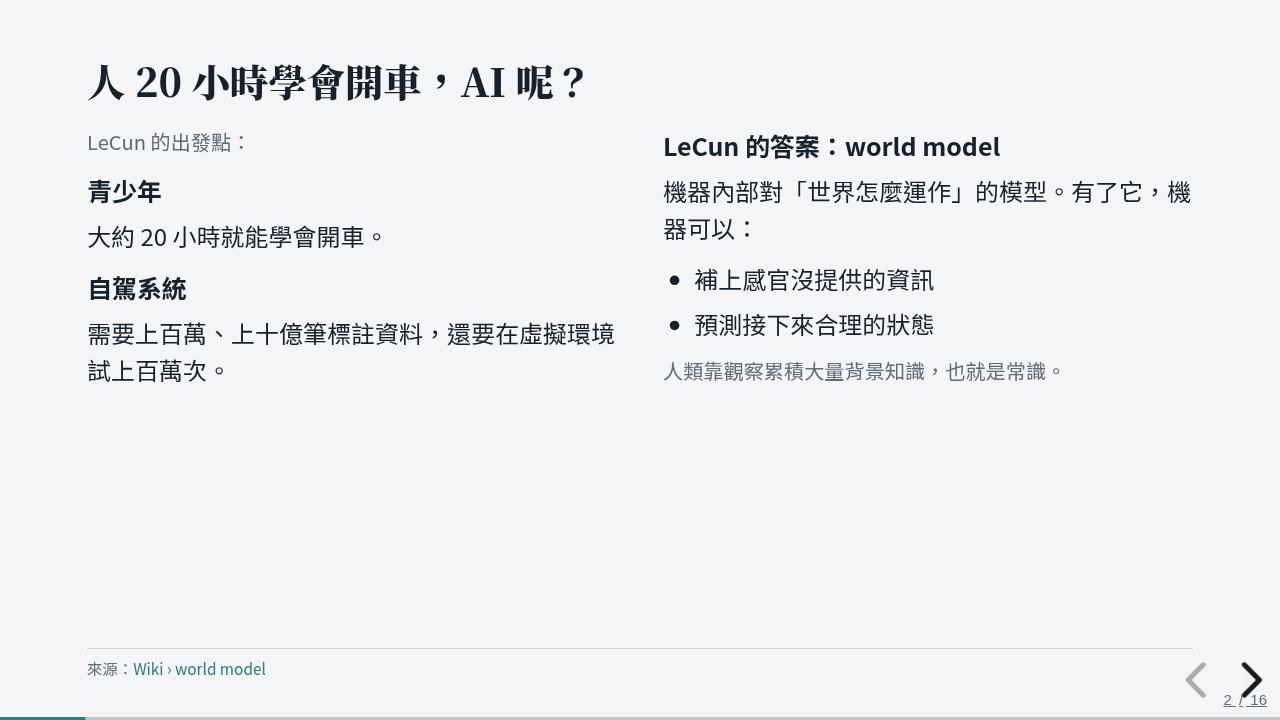
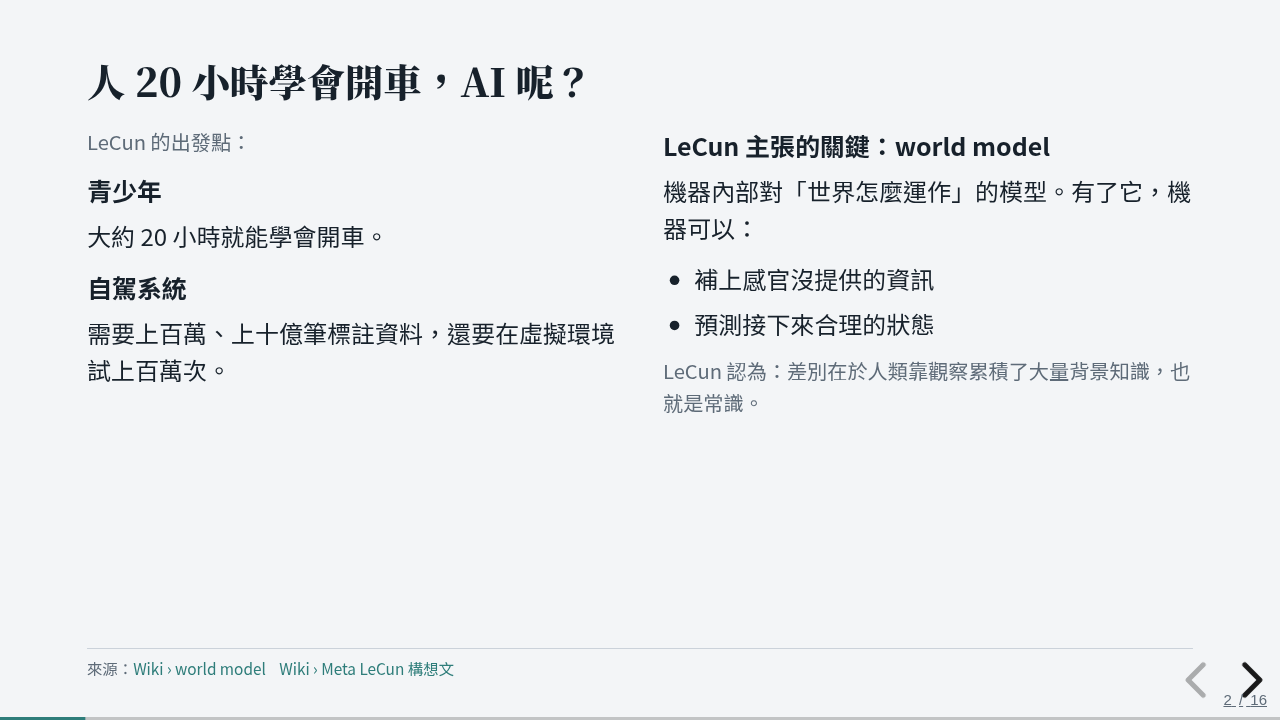
Run-2: fix final semantic findings

Changed region(s): [[0.5, 0.4889, 0.9375, 0.5806], [0.5625, 0.1833, 0.8125, 0.2444], [0.2188, 0.9167, 0.3438, 0.9472]]

diff --git a/index.html b/index.html
@@ -127,7 +127,7 @@ table.plain th { font-weight: 700; color: var(--muted); font-size: 19px; }
 </section>
 
 <!-- 1 動機 -->
-<section data-wiki="concepts/world-model.md#為什麼需要,concepts/world-model.md#是什麼">
+<section data-wiki="concepts/world-model.md#為什麼需要,concepts/world-model.md#是什麼,sources/meta-lecun-blog.md#摘要">
   <h2>人 20 小時學會開車，AI 呢？</h2>
   <div class="cols">
     <div>
@@ -138,16 +138,16 @@ table.plain th { font-weight: 700; color: var(--muted); font-size: 19px; }
       <p>需要上百萬、上十億筆標註資料，還要在虛擬環境試上百萬次。</p>
     </div>
     <div>
-      <h3>LeCun 的答案：world model</h3>
+      <h3>LeCun 主張的關鍵：world model</h3>
       <p>機器內部對「世界怎麼運作」的模型。有了它，機器可以：</p>
       <ul>
         <li>補上感官沒提供的資訊</li>
         <li>預測接下來合理的狀態</li>
       </ul>
-      <p class="muted small">人類靠觀察累積大量背景知識，也就是常識。</p>
+      <p class="muted small">LeCun 認為：差別在於人類靠觀察累積了大量背景知識，也就是常識。</p>
     </div>
   </div>
-  <footer class="src">來源：<a href="https://github.com/MikoAL/TAICA_w10/blob/main/wiki/concepts/world-model.md#為什麼需要">Wiki › world model</a></footer>
+  <footer class="src">來源：<a href="https://github.com/MikoAL/TAICA_w10/blob/main/wiki/concepts/world-model.md#為什麼需要">Wiki › world model</a><a href="https://github.com/MikoAL/TAICA_w10/blob/main/wiki/sources/meta-lecun-blog.md#摘要">Wiki › Meta LeCun 構想文</a></footer>
   <aside class="notes">重點是「效率差距」。這頁不講技術，只建立問題：怎麼讓機器像人一樣，從觀察學到世界的規則？</aside>
 </section>
 
@@ -187,7 +187,7 @@ table.plain th { font-weight: 700; color: var(--muted); font-size: 19px; }
   <h2>JEPA 的三個零件</h2>
   <div class="arch" aria-label="JEPA 架構圖">
     <div class="box in-x">x 看得到的部分</div><div class="arrow">→</div><div class="box">Context encoder</div><div class="arrow">→</div><div class="box pred">Predictor<br><span class="small muted">猜 y 的表示</span></div><div class="arrow">↘</div><div class="box loss">比較兩個表示<br>（L2 距離）</div>
-    <div class="box in-y">y 要猜的區域</div><div class="arrow">→</div><div class="box">Target encoder<br><span class="small muted">context encoder 的 EMA</span></div><div class="arrow">→</div><div class="rep">y 的表示<br><span class="small muted">遮的是輸出，不是輸入</span></div><div class="arrow">↗</div>
+    <div class="box in-y">圖片（輸入不遮）</div><div class="arrow">→</div><div class="box">Target encoder<br><span class="small muted">context encoder 的 EMA</span></div><div class="arrow">→</div><div class="rep">取出 y 區域的表示<br><span class="small muted">遮的是輸出</span></div><div class="arrow">↗</div>
   </div>
   <p class="formula">loss = <sup>1</sup>⁄<sub>M</sub> Σ<sub>i</sub> ‖ ŝ<sub>y<sub>i</sub></sub> − s<sub>y<sub>i</sub></sub> ‖₂²</p>
   <p>白話：M 塊目標區域，每塊「預測的表示」和「真正的表示」差多少，取平均。</p>
@@ -317,9 +317,9 @@ table.plain th { font-weight: 700; color: var(--muted); font-size: 19px; }
 </section>
 
 <!-- 10 JEPA-Anything -->
-<section data-wiki="concepts/orthogonal-predictive-factorization.md#核心想法概念版,sources/jepa-anything.md#問題,sources/jepa-anything.md#論文報告的結果,sources/jepa-anything.md#注意">
+<section data-wiki="concepts/orthogonal-predictive-factorization.md#核心想法概念版,sources/jepa-anything.md#問題,sources/jepa-anything.md#論文報告的結果,sources/jepa-anything.md#注意,concepts/orthogonal-predictive-factorization.md">
   <h2>最新進展：JEPA-Anything（2026）</h2>
-  <p class="muted small">v1 預印本，尚未經過同儕審查。以下結果都是「論文報告」。</p>
+  <p class="muted small">來源只有這一篇 v1 預印本，以下結果都是「論文報告」。</p>
   <div class="cols">
     <div>
       <h3>問題</h3>
@@ -394,7 +394,7 @@ table.plain th { font-weight: 700; color: var(--muted); font-size: 19px; }
 </section>
 
 <!-- 14 自我檢測 -->
-<section data-wiki="concepts/generative-vs-joint-embedding.md#jepa-站在哪裡,concepts/collapse.md#怎麼防,concepts/frozen-evaluation.md#為什麼要分清楚">
+<section data-wiki="concepts/generative-vs-joint-embedding.md#jepa-站在哪裡,concepts/pixel-vs-feature-prediction.md#生成式預測像素,concepts/collapse.md#怎麼防,concepts/frozen-evaluation.md#為什麼要分清楚">
   <h2>自我檢測</h2>
   <ol class="quiz">
     <li>JEPA 和 MAE 這類生成式方法，loss 算在哪裡不一樣？
@@ -404,7 +404,7 @@ table.plain th { font-weight: 700; color: var(--muted); font-size: 19px; }
     <li>有人說「JEPA 比 MAE 好」，你應該先問什麼？
       <span class="answer fragment">用哪一種評估？JEPA 的優勢主要在凍結評估和低樣本，完整微調時 I-JEPA 甚至略輸 MAE。</span></li>
   </ol>
-  <footer class="src">來源：<a href="https://github.com/MikoAL/TAICA_w10/blob/main/wiki/concepts/generative-vs-joint-embedding.md">Wiki › 三大流派</a><a href="https://github.com/MikoAL/TAICA_w10/blob/main/wiki/concepts/collapse.md">Wiki › collapse</a><a href="https://github.com/MikoAL/TAICA_w10/blob/main/wiki/concepts/frozen-evaluation.md">Wiki › 怎麼看數字</a></footer>
+  <footer class="src">來源：<a href="https://github.com/MikoAL/TAICA_w10/blob/main/wiki/concepts/generative-vs-joint-embedding.md">Wiki › 三大流派</a><a href="https://github.com/MikoAL/TAICA_w10/blob/main/wiki/concepts/pixel-vs-feature-prediction.md">Wiki › 像素 vs 表示</a><a href="https://github.com/MikoAL/TAICA_w10/blob/main/wiki/concepts/collapse.md">Wiki › collapse</a><a href="https://github.com/MikoAL/TAICA_w10/blob/main/wiki/concepts/frozen-evaluation.md">Wiki › 怎麼看數字</a></footer>
   <aside class="notes">按方向鍵逐一顯示答案。</aside>
 </section>
 

diff --git a/slides/outline.md b/slides/outline.md
@@ -7,7 +7,7 @@
 | # | 標題 | 教學目的 | 要點 | 但書 | 引用 Wiki |
 |---|---|---|---|---|---|
 | 0 | JEPA：不預測像素，預測意義 | 封面 | 主題、對象 | — | （封面，不引用） |
-| 1 | 人 20 小時學會開車，AI 呢？ | 動機 | LeCun 的出發點：20 小時 vs 百萬到十億筆資料；world model：補資訊、預測未來 | 無：world model 頁的「注意」（研究方向、未來幾十年的挑戰）放在「大藍圖」頁 | `concepts/world-model.md#為什麼需要`、`#是什麼` |
+| 1 | 人 20 小時學會開車，AI 呢？ | 動機 | LeCun 的出發點：20 小時 vs 百萬到十億筆資料；world model：補資訊、預測未來 | 無：world model 頁的「注意」（研究方向、未來幾十年的挑戰）放在「大藍圖」頁 | `concepts/world-model.md#為什麼需要`、`#是什麼`、`sources/meta-lecun-blog.md#摘要` |
 | 2 | 不用標註也能學：自監督學習 | 前置知識 | 從無標註資料學；把一部分藏起來猜（AI 補充框）；能量觀點一句話 | — | `concepts/self-supervised-learning.md#是什麼`、`#用能量來想` |
 | 3 | 三種「猜」法 | 定位 JEPA | 三大流派表；生成式要補每個細節（人手）；JEPA 的位置 | 無：「像素 vs 表示」的但書放在「預測表示真的比較好？」頁 | `concepts/generative-vs-joint-embedding.md#自監督的三大流派生成式聯合嵌入jepa`、`#生成式的問題`、`#jepa-站在哪裡`、`concepts/pixel-vs-feature-prediction.md#生成式預測像素` |
 | 4 | JEPA 的三個零件 | 核心概念 | context encoder / predictor / target encoder（EMA）；遮的是 target encoder 的輸出；L2 loss 一個式子 | 無：I-JEPA 頁的「注意」放在「JEPA 輸在哪裡」頁 | `concepts/jepa.md#三個零件`、`#一句話`、`concepts/collapse.md#怎麼防`、`sources/ijepa.md#方法` |
@@ -17,11 +17,11 @@
 | 8 | 預測表示真的比較好？ | 證據 | 66.9 vs 40.7（像素版本 800 vs 500 epoch）；V-JEPA 一致；16 張 A100、72 小時、約 5 倍迭代 | 表 7 只是一組消融；V-JEPA 微調差距很小 85.4 vs 85.6 | `concepts/pixel-vs-feature-prediction.md#證據`、`#注意`、`sources/ijepa.md#結果` |
 | 9 | 從圖片到影片：V-JEPA | 延伸 | 2 million 支影片；K400 81.9%、SSv2 72.2%；動作 +21；label-efficient | 無：V-JEPA 頁的「注意」放在「JEPA 輸在哪裡」頁 | `sources/vjepa.md#一句話`、`#結果` |
 | 10 | 怎麼看這些數字 | 讀懂評估 | linear probe / 凍結 / 微調 / 低樣本（1% ≈ 12 或 13 張） | JEPA 優勢主要在凍結和低樣本，微調時變小 | `concepts/frozen-evaluation.md#linear-probe線性探測`、`#frozen-evaluation凍結評估`、`#fine-tuning微調`、`#low-shot低樣本`、`#為什麼要分清楚` |
-| 11 | 最新進展：JEPA-Anything | 前沿 | 論文認為單一目標讓容易的結構主導；拆成正交因子；七個領域；Pong −34.8% | v1 預印本；和標準 JEPA 比；組合介入只有 12.90%；Hopper 輸（放在「JEPA 輸在哪裡」頁） | `concepts/orthogonal-predictive-factorization.md#核心想法概念版`、`sources/jepa-anything.md#問題`、`#論文報告的結果`、`#注意` |
+| 11 | 最新進展：JEPA-Anything | 前沿 | 論文認為單一目標讓容易的結構主導；拆成正交因子；七個領域；Pong −34.8% | v1 預印本；和標準 JEPA 比；組合介入只有 12.90%；Hopper 輸（放在「JEPA 輸在哪裡」頁） | `concepts/orthogonal-predictive-factorization.md#核心想法概念版`、`sources/jepa-anything.md#問題`、`#論文報告的結果`、`#注意`、`concepts/orthogonal-predictive-factorization.md` |
 | 12 | JEPA 輸在哪裡 | 批判思考 | 微調 87.1 vs 87.8；ImageNet 74.8 vs 75.1；Hopper；drops by 12%（287 → 29 張，80.6 → 68.2）；兩到 10 倍沒說跟誰比 | 本頁就是但書頁 | `sources/ijepa.md#注意jepa-不是全面勝出`、`sources/vjepa.md#注意`、`sources/jepa-anything.md#注意`、`sources/meta-ijepa-blog.md#注意` |
 | 13 | 回到大藍圖：LeCun 的六個模組 | 收束到願景 | 六模組；world model 核心是 JEPA；predictor 是原始的 world model | 仍是研究方向，未來幾十年的主要挑戰 | `concepts/world-model.md#lecun-的六模組架構一頁帶過`、`#注意`、`#和-jepa-的關係` |
 | 14 | 帶走四句話 | 複習 | 預測表示；忽略不重要的細節，66.9 vs 40.7；難點 collapse；不是全面勝出 | 第 4 句本身就是但書 | `concepts/jepa.md#一句話`、`#為什麼不預測像素`、`concepts/pixel-vs-feature-prediction.md#證據`、`concepts/collapse.md#怎麼防`、`sources/ijepa.md#注意jepa-不是全面勝出`、`sources/vjepa.md#注意`、`sources/jepa-anything.md#注意` |
-| 15 | 自我檢測 | 檢查理解 | 3 題，答案用 fragment 顯示 | 第 3 題就是但書 | `concepts/generative-vs-joint-embedding.md#jepa-站在哪裡`、`concepts/collapse.md#怎麼防`、`concepts/frozen-evaluation.md#為什麼要分清楚` |
+| 15 | 自我檢測 | 檢查理解 | 3 題，答案用 fragment 顯示 | 第 3 題就是但書 | `concepts/generative-vs-joint-embedding.md#jepa-站在哪裡`、`concepts/pixel-vs-feature-prediction.md#生成式預測像素`、`concepts/collapse.md#怎麼防`、`concepts/frozen-evaluation.md#為什麼要分清楚` |
 
 ## 缺口（Wiki 沒有、簡報想用的）
 - 無。第 2、5 頁的 AI 補充框對應 Wiki 裡標了（AI 補充）的內容。

diff --git a/logs/run-2/semantic.md b/logs/run-2/semantic.md
@@ -1,0 +1,29 @@
+# 語意檢查（run-2）
+| 頁 | 標題 | 判定 | 問題 |
+|---|---|---|---|
+| 2 | 人 20 小時學會開車，AI 呢？ | UNSUPPORTED | (1) 「LeCun 的答案：world model」：world-model.md#為什麼需要 只說 LeCun 認為差別在「人類靠觀察累積的背景知識（常識）」，沒有說 world model 是他對「20 小時 vs 上百萬筆」這個差距的「答案」；把「是什麼」與「為什麼需要」兩節接成因果是投影片自己的推論。(2) 「人類靠觀察累積大量背景知識，也就是常識」寫成事實，wiki 是「他認為…」（引文為 "It can be hypothesized that…"），丟掉了「LeCun 認為/假說」的限定。 |
+| 3 | 不用標註也能學：自監督學習 | SUPPORTED | |
+| 4 | 三種「猜」法 | SUPPORTED | |
+| 5 | JEPA 的三個零件 | MISLEADING | 架構圖把「y 要猜的區域」直接畫成 Target encoder 的輸入，但同一張圖又寫「遮的是輸出，不是輸入」，兩者互相矛盾；初學者會以為 target encoder 只看到被遮住的那塊。wiki（sources/ijepa.md#方法）是「目標區塊是遮住 target encoder 的輸出」，jepa.md 的「把被遮住的部分 y 編碼」是簡化說法。建議圖改成 Target encoder 吃整張圖、再在輸出上取 y 區塊的表示。其餘文字（L2、公式、EMA）都有支持。 |
+| 6 | JEPA 的難點：collapse（表示崩塌） | SUPPORTED | |
+| 7 | 防 collapse 的一種做法：VICReg 的三個項 | SUPPORTED | |
+| 8 | 主要範例：I-JEPA（2023，圖片） | SUPPORTED | |
+| 9 | 預測表示真的比較好？ | SUPPORTED | |
+| 10 | 從圖片到影片：V-JEPA（2024） | SUPPORTED | |
+| 11 | 怎麼看這些數字 | SUPPORTED | |
+| 12 | 最新進展：JEPA-Anything（2026） | UNSUPPORTED | 「v1 預印本，尚未經過同儕審查」：在 sources/jepa-anything.md 這句是「（AI 補充）性質」，不是來源原文（引文只支持 "arXiv…v1"），但投影片用一般文字寫，沒放進 ai-note 框。其餘（七個領域、34.8%、12.90%、「論文報告」標示）都有支持。 |
+| 13 | JEPA 輸在哪裡 | SUPPORTED | |
+| 14 | 回到大藍圖：LeCun 的六個模組 | SUPPORTED | |
+| 15 | 帶走四句話 | SUPPORTED | |
+| 16 | 自我檢測 | SUPPORTED | 見小建議第 5 點。 |
+
+## 統計
+SUPPORTED 12 / UNSUPPORTED 2 / MISLEADING 1
+
+## 小建議（不影響判定）
+1. 第 12 頁：左下 split 圖把目標切成並排的色塊，容易讓初學者以為「正交」是把狀態像切蛋糕一樣切成不重疊的片段。wiki 只說「用學到的基底矩陣拆成成分、互相正交」。建議圖說加一句「示意」，或避免暗示切成等分。
+2. 第 12 頁：「同時介入多個變數時只降低 12.90%」，wiki（jepa-anything.md#注意）寫「改善較小」。「只」是投影片的詮釋，影響不大，但可改成「較小（12.90%）」。
+3. 第 10 頁：「SSv2 +21 分」「預訓練看的樣本明顯比較少」沒寫比較對象，wiki 也沒寫；初學者可能誤解成對所有方法都如此。可加「相較於論文中的基準」。
+4. 第 8 頁：右側 10x10 格子圖（context 佔 90% 區域、target 為其中挖出的洞）是投影片自己的示意，wiki 沒有這個配置。建議圖說標明「示意，不是論文實際比例」。
+5. 第 16 頁：Q1「MAE 算在像素空間」的直接文字出處是 concepts/pixel-vs-feature-prediction.md#生成式預測像素，建議把它加進 data-wiki（目前 generative-vs-joint-embedding 只用腳註把 MAE 掛在「loss 在輸入空間」上）。
+6. 第 9 頁：把「ViT-Huge 16 張 A100、不到 72 小時」放在「預測表示比較好」的證據下，但它是成本，不是表示 vs 像素的比較；建議標成「計算成本」。
